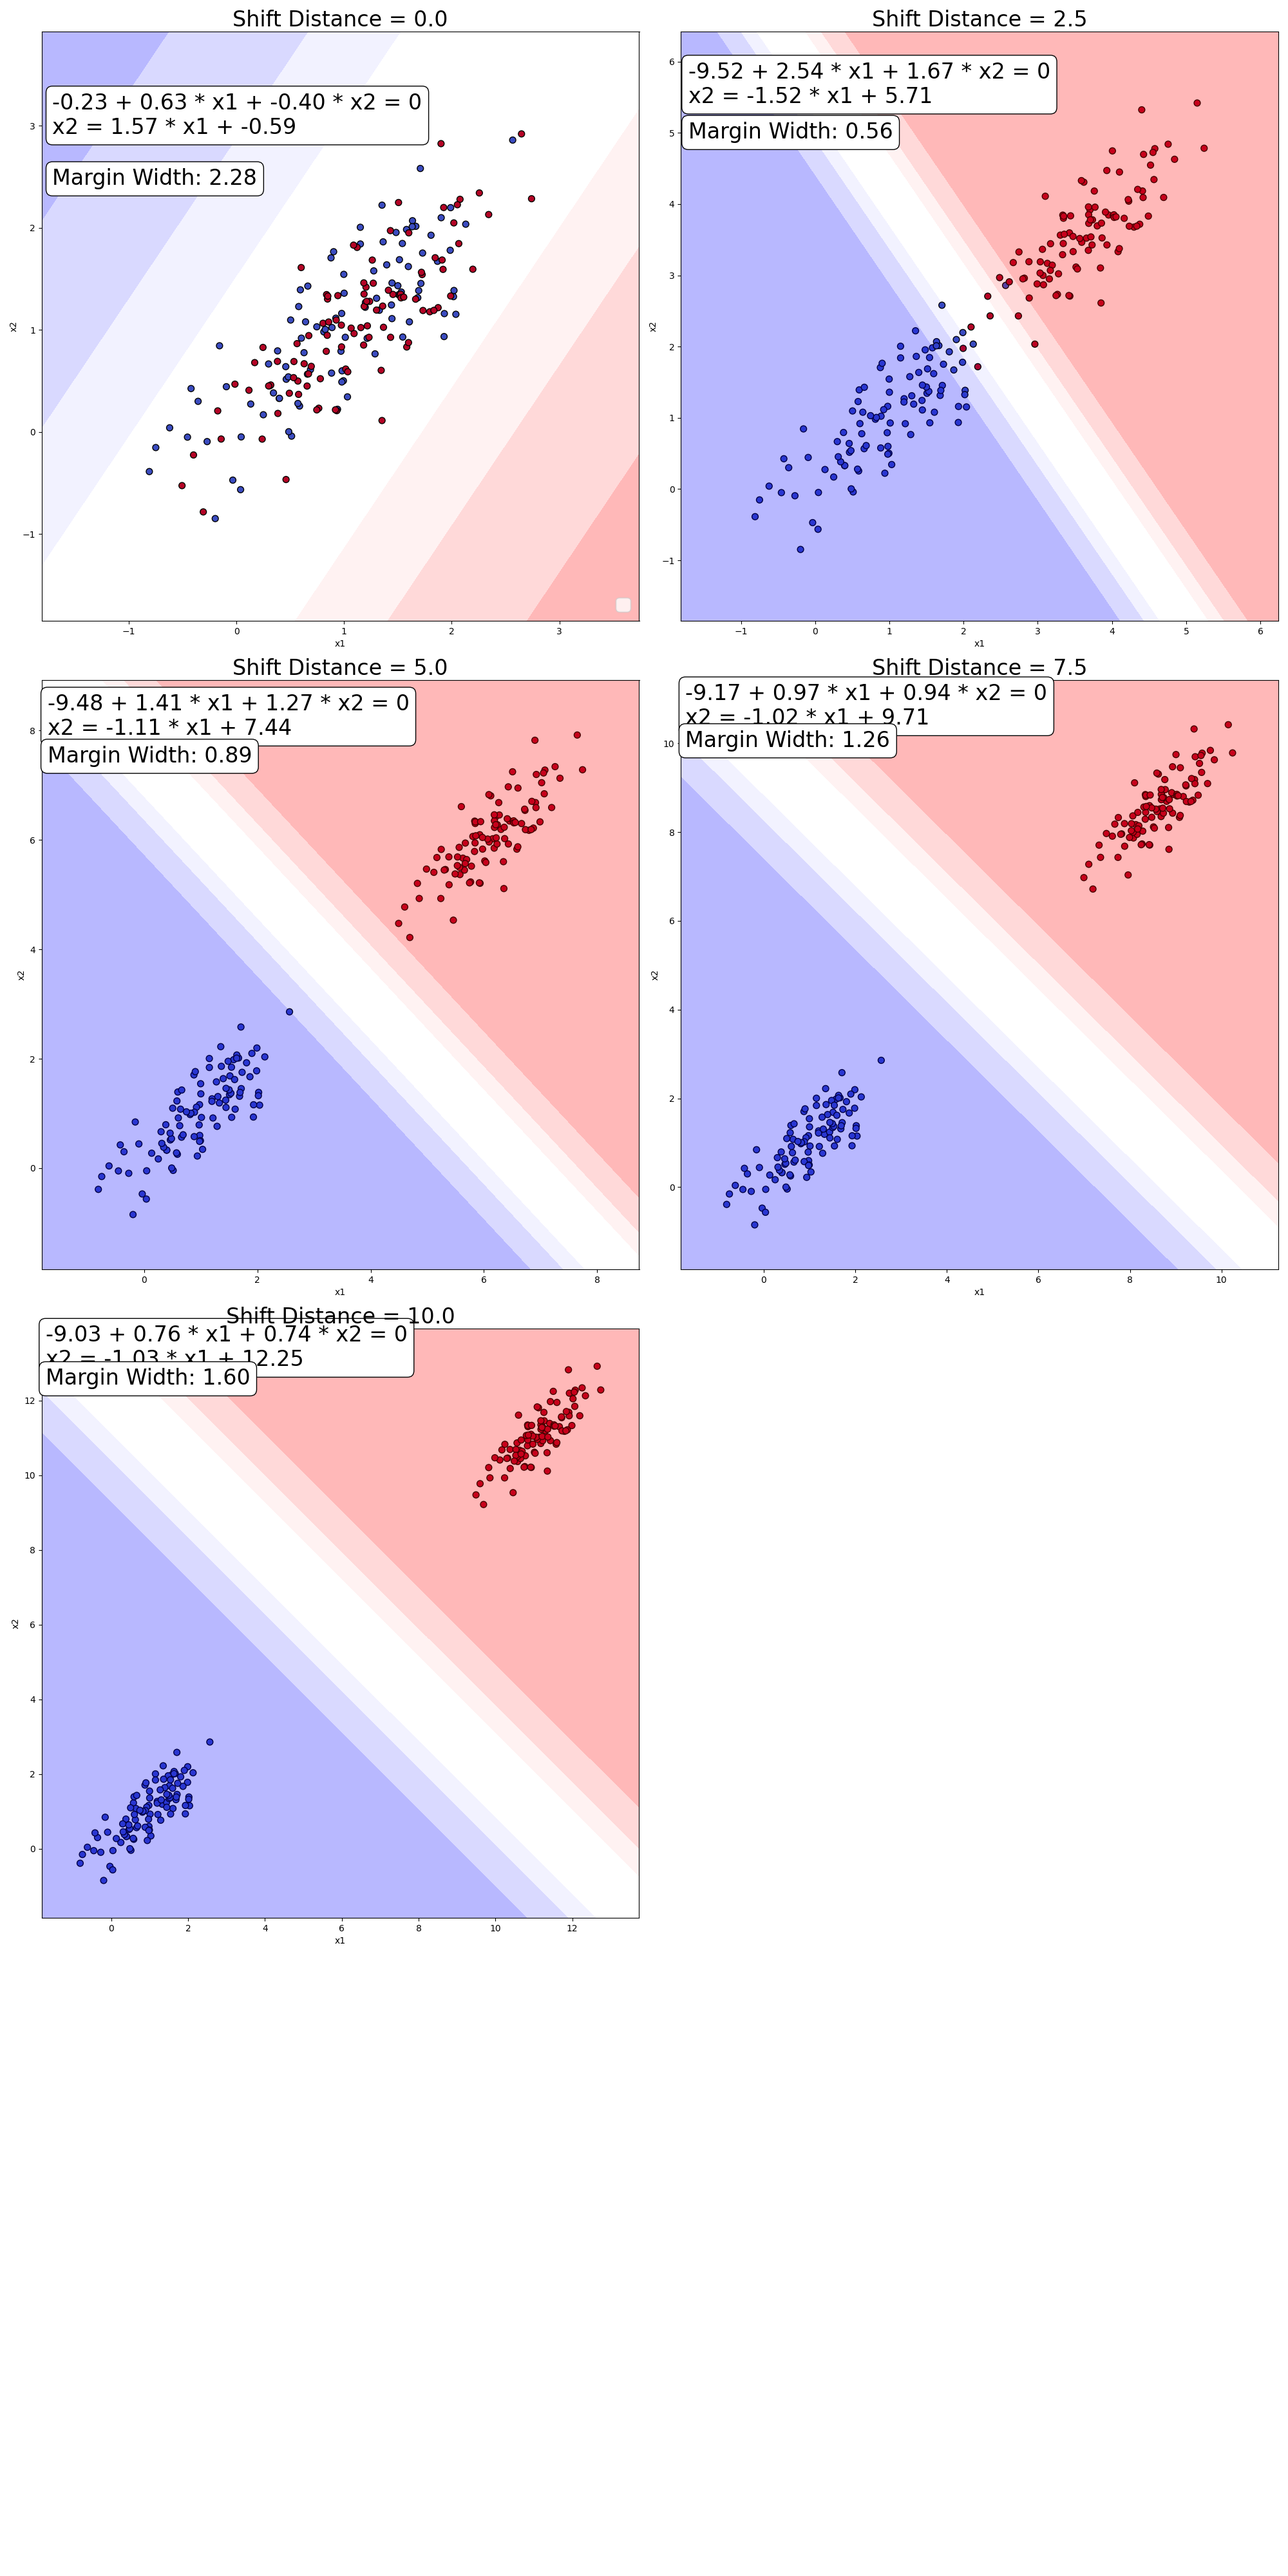
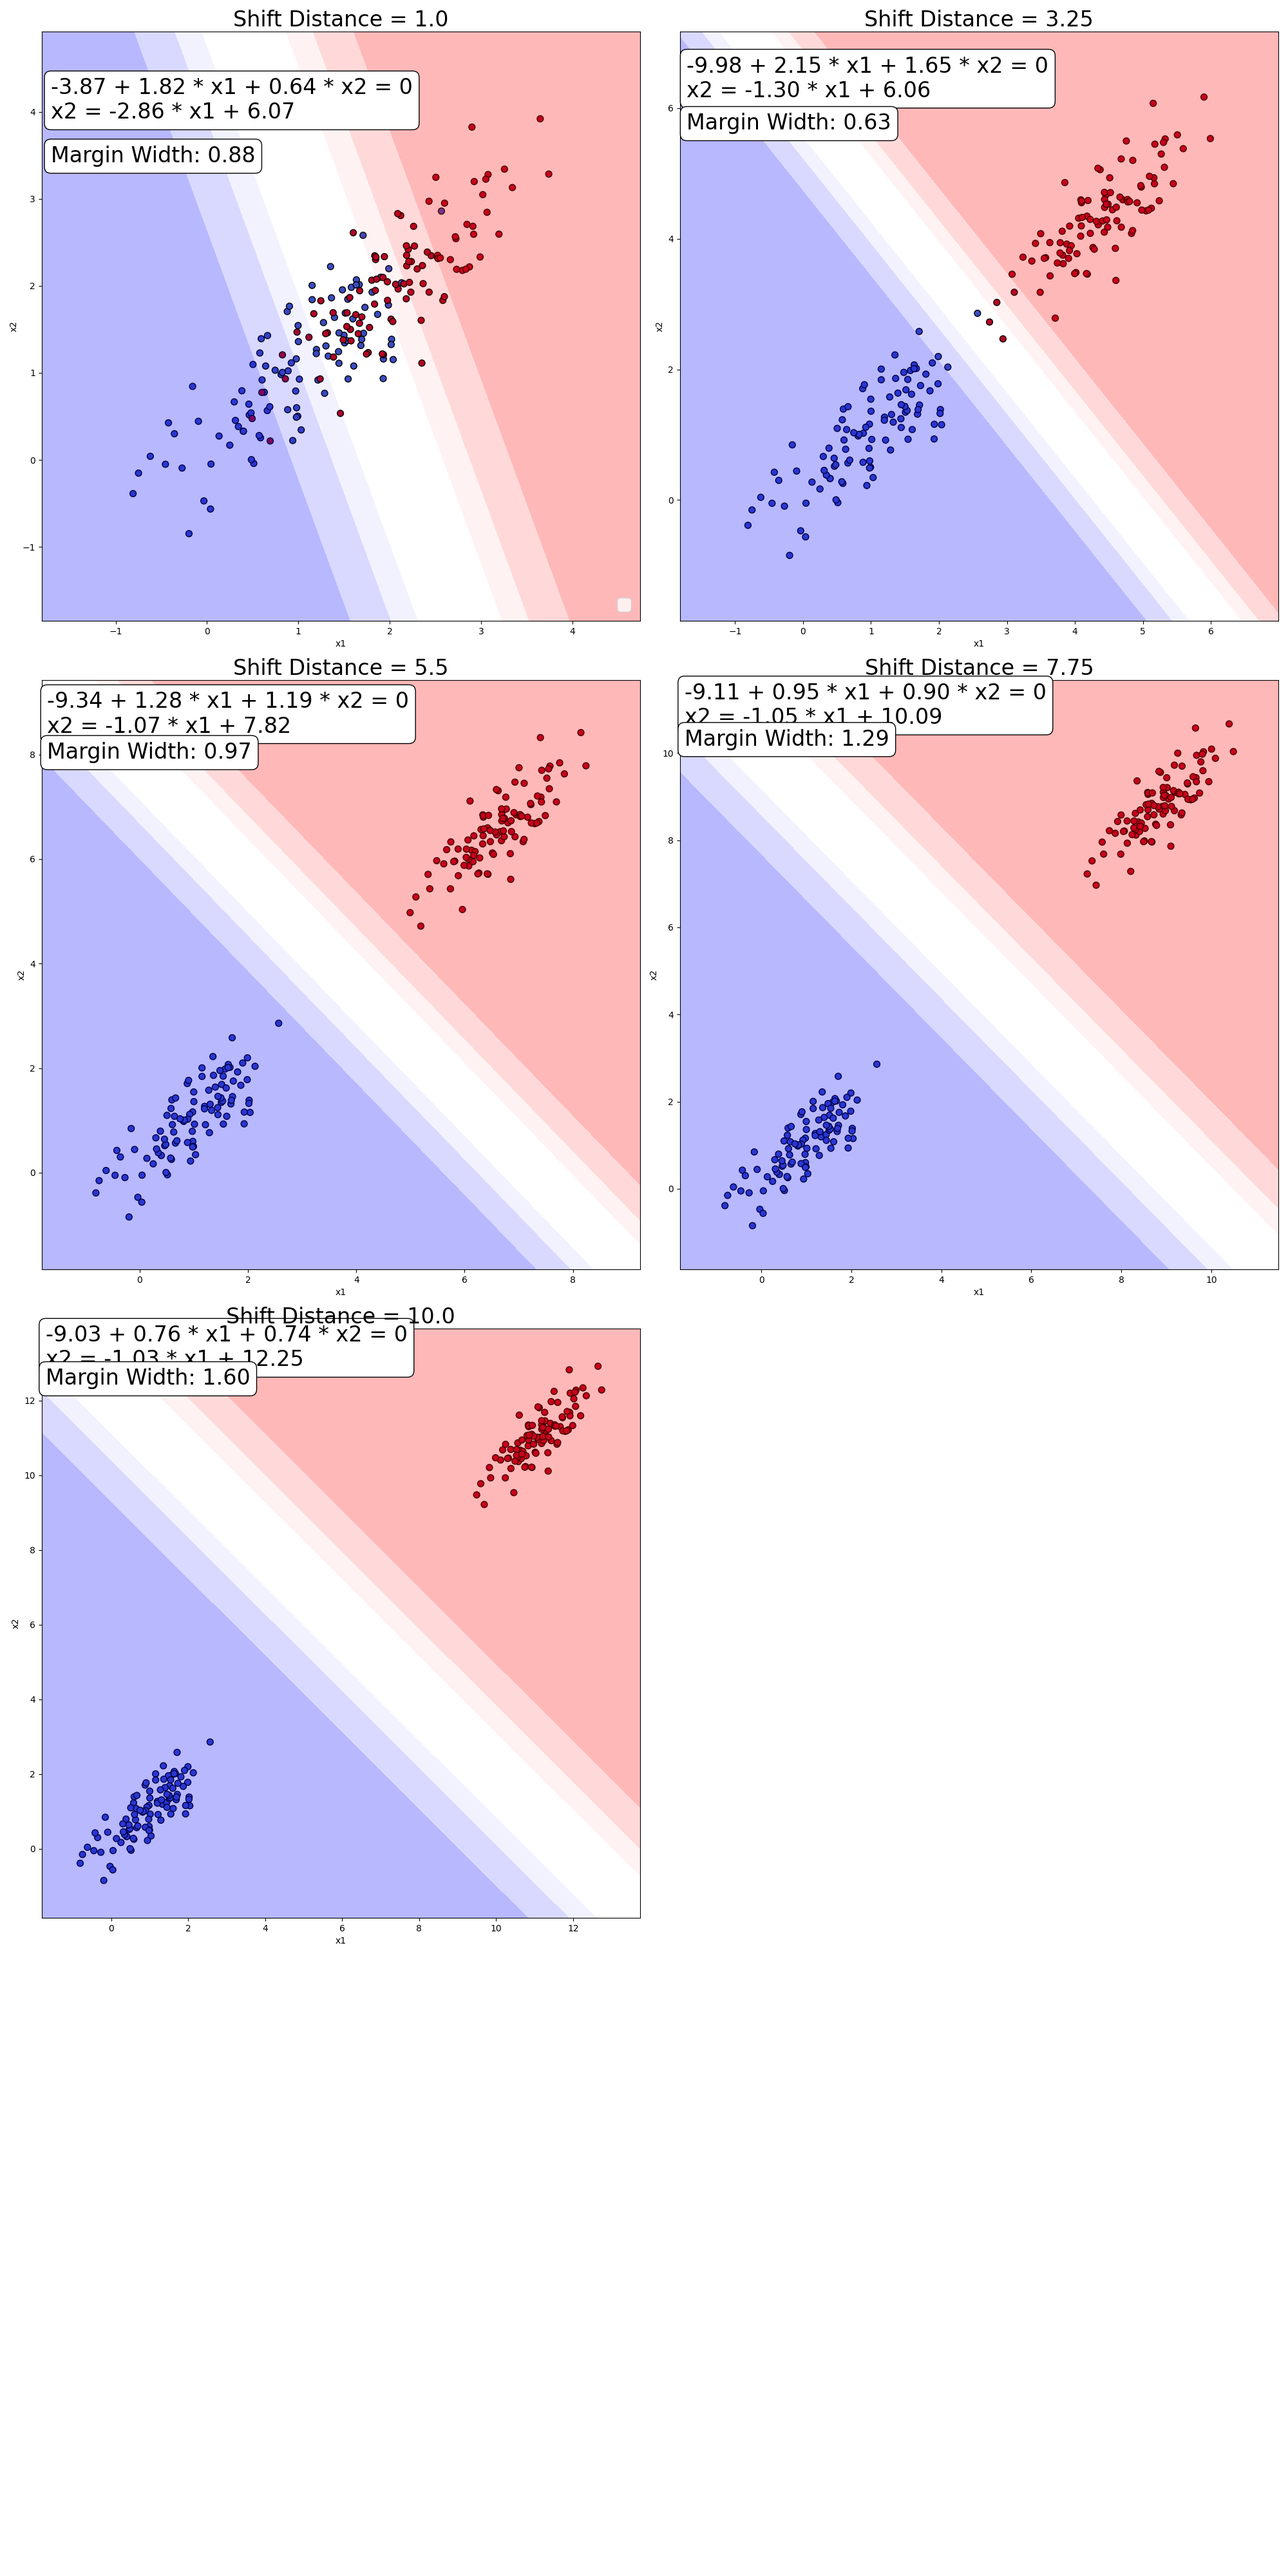
fixed plotting

diff --git a/logistic_regression.py b/logistic_regression.py
@@ -59,10 +59,8 @@ def do_experiments(start, end, step_num):
 
         # Implement: Plot the dataset
         plt.subplot(n_rows, n_cols, i)
-        plt.scatter(X[:, 0], X[:, 1], c=y, cmap='coolwarm', edgecolor='k', s=50)
-        plt.xlabel("Feature 1")
-        plt.ylabel("Feature 2")
-        plt.title(f"Shift Distance: {distance:.2f}")
+        plt.scatter(X[y == 0][:, 0], X[y == 0][:, 1], color="blue", label="Class 0", alpha=0.5)
+        plt.scatter(X[y == 1][:, 0], X[y == 1][:, 1], color="red", label="Class 1", alpha=0.5)
 
         # Implement: Calculate and store logistic loss
         proba = model.predict_proba(X)
@@ -96,6 +94,7 @@ def do_experiments(start, end, step_num):
         plt.title(f"Shift Distance = {distance}", fontsize=24)
         plt.xlabel("x1")
         plt.ylabel("x2")
+        plt.axline((0, intercept), slope=slope, color="black", linestyle="--", label="Decision Boundary")
 
         # Display decision boundary equation and margin width on the plot
         equation_text = f"{beta0:.2f} + {beta1:.2f} * x1 + {beta2:.2f} * x2 = 0\nx2 = {slope:.2f} * x1 + {intercept:.2f}"
@@ -118,7 +117,7 @@ def do_experiments(start, end, step_num):
 
     # Implement: Plot beta0
     plt.subplot(3, 3, 1)
-    plt.plot(shift_distances, beta0_list, marker='x')
+    plt.plot(shift_distances, beta0_list, marker='x',label="Beta0")
     plt.title("Shift Distance vs Beta0")
     plt.xlabel("Shift Distance")
     plt.ylabel("Beta0")
